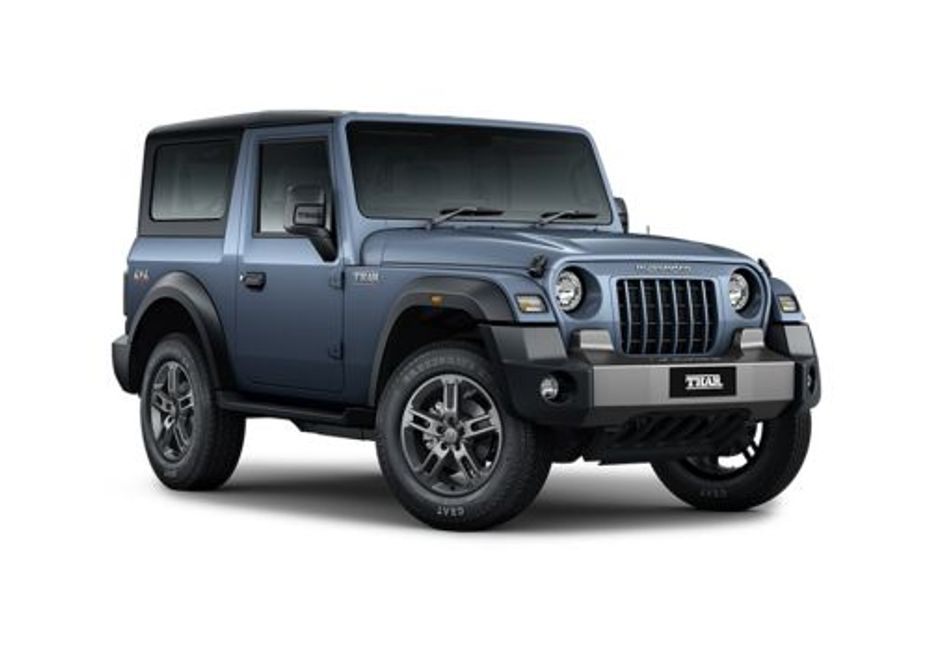
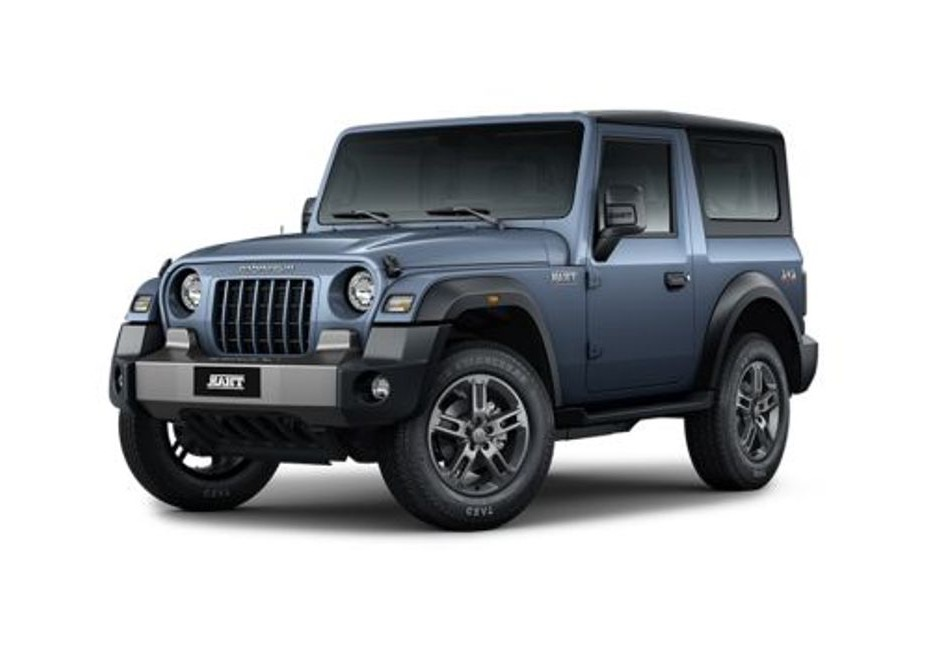
feat: add 4 new car models with full variants, images, and remove mirror system
Cars added (33 new variants across 4 models):
- Skoda Slavia: 9 variants (Active/Ambition/Style/Monte Carlo, 1.0 & 1.5 TSI)
- Maruti Suzuki Grand Vitara: 6 variants (mild hybrid + strong hybrid e-CVT)
- Toyota Fortuner: 6 variants (Base/Mid/High/Legender/GR Sport, diesel 4x2 & 4x4)
- Mahindra Scorpio-N: 12 variants (Z2–Z8L diesel + Z4/Z6/Z8 petrol)

Images: 21 new color photos downloaded from cardekho CDN (930x620px),
6 Thar images physically flipped, all oriented front-facing-left per convention

Mirror system removed: dropped mirror field from cars_data.py and all
scaleX(-1) CSS transform logic from CarDetail, BrandSearch, GalleryViewer —
orientation is now a physical property of each image file

diff --git a/frontend/src/components/GalleryViewer.jsx b/frontend/src/components/GalleryViewer.jsx
@@ -68,12 +68,6 @@ export default function GalleryViewer({
   const [visible, setVisible] = useState(true);
   const fadeTimer = useRef(null);
 
-  // heroFlip is a plain derived value, NOT delayed state.
-  // It updates the instant activeIdx changes — no timer, no stale closure.
-  // Rapid arrow clicks can never produce a mismatched flip because the value
-  // always reflects the currently targeted image, not a scheduled update.
-  const heroFlip = targetImg?.flip ?? false;
-
   useEffect(() => {
     const newSrc = targetImg?.src;
     if (!newSrc) return;
@@ -124,9 +118,7 @@ export default function GalleryViewer({
     };
   }, [lightboxOpen, closeLightbox]);
 
-  // heroFlip is set directly from targetImg.flip (baked into each exterior image
-  // object by CarDetail.jsx via the MIRROR_EXTERIOR set). Interior images never
-  // carry flip:true so they are never mirrored.
+
 
   // In 'all' mode, interior images have a label but no colorName — fall through to label
   const activeLabel = viewFilter === 'interior'
@@ -216,7 +208,7 @@ export default function GalleryViewer({
               display: 'block',
               opacity: visible ? 1 : 0,
               transition: 'opacity 0.18s ease',
-              transform: heroFlip ? 'scaleX(-1)' : 'none',
+              transform: 'none',
             }}
           />
         ) : (
@@ -373,7 +365,7 @@ export default function GalleryViewer({
               objectFit: 'contain',
               borderRadius: '10px',
               boxShadow: '0 16px 60px rgba(0,0,0,0.6)',
-              transform: heroFlip ? 'scaleX(-1)' : 'none',
+              transform: 'none',
             }}
           />
         </div>

diff --git a/frontend/src/pages/CarDetail.jsx b/frontend/src/pages/CarDetail.jsx
@@ -371,21 +371,19 @@ export default function CarDetail() {
   const colors = first.colors || [];
 
   // Build exterior image list for GalleryViewer (one entry per color).
-  // flip:true is baked into each object — GalleryViewer reads it directly from
-  // targetImg so no prop threading is needed.
+  // All images are stored facing left — no flip transform needed.
   const imgMap = (first.image_urls && typeof first.image_urls === 'object' && !Array.isArray(first.image_urls))
     ? first.image_urls
     : {};
   const fallbackImgSrc = Array.isArray(first.image_urls) ? first.image_urls[0] : null;
-  const needsFlip      = first.mirror ?? false;
   const exteriorImages = colors.length > 0
     ? colors.map(name => ({
         colorName: name,
         src:       imgMap[name] || fallbackImgSrc || null,
         alt:       `${decodedModel} in ${name}`,
-        flip:      needsFlip,
+        flip:      false,
       }))
-    : (fallbackImgSrc ? [{ colorName: null, src: fallbackImgSrc, alt: decodedModel, flip: needsFlip }] : []);
+    : (fallbackImgSrc ? [{ colorName: null, src: fallbackImgSrc, alt: decodedModel, flip: false }] : []);
 
   const interiorImages = GALLERY_INTERIORS[first.model_name] || [];
 

diff --git a/frontend/src/pages/BrandSearch.jsx b/frontend/src/pages/BrandSearch.jsx
@@ -117,7 +117,6 @@ export default function BrandSearch() {
                           width: '100%', height: '180px',
                           objectFit: 'cover', objectPosition: 'center',
                           display: 'block', backgroundColor: '#E8EEF5',
-                          transform: first.mirror ? 'scaleX(-1)' : 'none',
                           transformOrigin: 'center',
                         }}
                       />

diff --git a/backend/database/cars_data.py b/backend/database/cars_data.py
@@ -4,46 +4,125 @@
 
 _CRETA_COLORS  = ['Robust Emerald Pearl', 'Atlas White With Titanium Black', 'Titanium Black Matte', 'Titan Grey Matte', 'Starry Night', 'Atlas White', 'Titan Grey', 'Titanium Black', 'King Limited Edition Titanium Black Matte']
 _CRETA_IMGS    = {'Robust Emerald Pearl': '/images/hyundai-creta-robust-emerald-pearl.jpg', 'Atlas White With Titanium Black': '/images/hyundai-creta-atlas-white-with-titanium-black.jpg', 'Titanium Black Matte': '/images/hyundai-creta-titanium-black-matte.jpg', 'Titan Grey Matte': '/images/hyundai-creta-titan-grey-matte.jpg', 'Starry Night': '/images/hyundai-creta-starry-night.jpg', 'Atlas White': '/images/hyundai-creta-atlas-white.jpg', 'Titan Grey': '/images/hyundai-creta-titan-grey.jpg', 'Titanium Black': '/images/hyundai-creta-titanium-black.jpg', 'King Limited Edition Titanium Black Matte': '/images/hyundai-creta-king-limited-edition-titanium-black-matte.jpg'}
-_CRETA_MIRROR  = True   # images face left — apply scaleX(-1) to face left consistently
+
 
 _THAR_COLORS   = ['Everest White', 'Galaxy Grey', 'Stealth Black', 'Battleship Gray', 'Deep Forest', 'Tango Red']
 _THAR_IMGS     = {'Everest White': '/images/mahindra-thar-everest-white.jpg', 'Galaxy Grey': '/images/mahindra-thar-galaxy-grey.jpg', 'Stealth Black': '/images/mahindra-thar-stealth-black.jpg', 'Battleship Gray': '/images/mahindra-thar-battleship-gray.jpg', 'Deep Forest': '/images/mahindra-thar-deep-forest.jpg', 'Tango Red': '/images/mahindra-thar-tango-red.jpg'}
-_THAR_MIRROR   = False  # images already face right — no flip needed
 
 _NEXON_COLORS  = ['Pure Grey Black Roof', 'Ocean Blue With White Roof', 'Pristine White', 'Daytona Grey Dual Tone', 'Atlas Black Dark Edition', 'Grassland Beige With Black Roof', 'Grassland Beige', 'Atlas Black Red Edition', 'Pristine White Dual Tone', 'Ocean Blue', 'Pure Grey', 'Royal Blue', 'Royal Blue With Black Roof', 'Daytona Grey']
 _NEXON_IMGS    = {'Pure Grey Black Roof': '/images/tata-nexon-pure-grey-black-roof.jpg', 'Ocean Blue With White Roof': '/images/tata-nexon-ocean-blue-with-white-roof.jpg', 'Pristine White': '/images/tata-nexon-pristine-white.jpg', 'Daytona Grey Dual Tone': '/images/tata-nexon-daytona-grey-dual-tone.jpg', 'Atlas Black Dark Edition': '/images/tata-nexon-dark-edition-atlas-black.jpg', 'Grassland Beige With Black Roof': '/images/tata-nexon-grassland-beige-with-black-roof.jpg', 'Grassland Beige': '/images/tata-nexon-grassland-beige.jpg', 'Atlas Black Red Edition': '/images/tata-nexon-atlas-black-red-dark-edition.jpg', 'Pristine White Dual Tone': '/images/tata-nexon-pristine-white-dual-tone.jpg', 'Ocean Blue': '/images/tata-nexon-ocean-blue.jpg', 'Pure Grey': '/images/tata-nexon-pure-grey.jpg', 'Royal Blue': '/images/tata-nexon-royal-blue.jpg', 'Royal Blue With Black Roof': '/images/tata-nexon-royal-blue-with-black-roof.jpg', 'Daytona Grey': '/images/tata-nexon-daytona-grey.jpg'}
-_NEXON_MIRROR  = True
 
 _CITY_COLORS   = ['Lunar Silver Metallic', 'Platinum White Pearl', 'Radiant Red Metallic', 'Meteoroid Grey Metallic', 'Obsidian Blue Pearl', 'Crystal Black Pearl']
 _CITY_IMGS     = {'Lunar Silver Metallic': '/images/honda-city-lunar-silver-metallic.jpg', 'Platinum White Pearl': '/images/honda-city-platinum-white-pearl.jpg', 'Radiant Red Metallic': '/images/honda-city-radiant-red-metallic.jpg', 'Meteoroid Grey Metallic': '/images/honda-city-meteoroid-grey-metallic.jpg', 'Obsidian Blue Pearl': '/images/honda-city-obsidian-blue-pearl.jpg', 'Crystal Black Pearl': '/images/honda-city-crystal-black-pearl.jpg'}
-_CITY_MIRROR   = True
+
+# ── Skoda Slavia ─────────────────────────────────────────────────────────────
+_SLAVIA_COLORS = ['Brilliant Silver', 'Lava Blue', 'Candy White', 'Carbon Steel', 'Cherry Red']
+_SLAVIA_IMGS   = {
+    'Brilliant Silver': '/images/skoda-slavia-brilliant-silver.jpg',
+    'Lava Blue':        '/images/skoda-slavia-lava-blue.jpg',
+    'Candy White':      '/images/skoda-slavia-candy-white.jpg',
+    'Carbon Steel':     '/images/skoda-slavia-carbon-steel.jpg',
+    'Cherry Red':       '/images/skoda-slavia-cherry-red.jpg',
+}
+
+# ── Maruti Suzuki Grand Vitara ────────────────────────────────────────────────
+_GV_COLORS = ['Arctic White', 'Opulent Red', 'Grandeur Grey', 'Splendid Silver', 'Chestnut Brown']
+_GV_IMGS   = {
+    'Arctic White':   '/images/maruti-suzuki-grand-vitara-arctic-white.jpg',
+    'Opulent Red':    '/images/maruti-suzuki-grand-vitara-opulent-red.jpg',
+    'Grandeur Grey':  '/images/maruti-suzuki-grand-vitara-grandeur-grey.jpg',
+    'Splendid Silver':'/images/maruti-suzuki-grand-vitara-splendid-silver.jpg',
+    'Chestnut Brown': '/images/maruti-suzuki-grand-vitara-chestnut-brown.jpg',
+}
+
+# ── Toyota Fortuner ───────────────────────────────────────────────────────────
+_FORTUNER_COLORS = ['Platinum White Pearl', 'Phantom Brown', 'Sparkling Black Crystal Shine', 'Avant-Garde Bronze', 'Attitude Black', 'Silver Metallic']
+_FORTUNER_IMGS   = {
+    'Platinum White Pearl':        '/images/toyota-fortuner-platinum-white-pearl.jpg',
+    'Phantom Brown':               '/images/toyota-fortuner-phantom-brown.jpg',
+    'Sparkling Black Crystal Shine':'/images/toyota-fortuner-sparkling-black.jpg',
+    'Avant-Garde Bronze':          '/images/toyota-fortuner-avant-garde-bronze.jpg',
+    'Attitude Black':              '/images/toyota-fortuner-attitude-black.jpg',
+    'Silver Metallic':             '/images/toyota-fortuner-silver-metallic.jpg',
+}
+
+# ── Mahindra Scorpio-N ────────────────────────────────────────────────────────
+_SCORPIO_COLORS = ['Everest White', 'Valyrian Silver', 'Deep Forest', 'Midnight Black', 'Stealth Black']
+_SCORPIO_IMGS   = {
+    'Everest White':   '/images/mahindra-scorpio-n-everest-white.jpg',
+    'Valyrian Silver': '/images/mahindra-scorpio-n-valyrian-silver.jpg',
+    'Deep Forest':     '/images/mahindra-scorpio-n-deep-forest.jpg',
+    'Midnight Black':  '/images/mahindra-scorpio-n-midnight-black.jpg',
+    'Stealth Black':   '/images/mahindra-scorpio-n-stealth-black.jpg',
+}
 
 CARS_DATA = [
-    {'id':1  , 'brand':'Hyundai'   , 'model_name':'Creta'   , 'series':'E'          , 'trim_name':'E 1.5 Petrol MT'                   , 'car_type':'SUV'          , 'fuel_type':'Petrol'  , 'gearbox_type':'Manual'    , 'ex_showroom_price':11.0  , 'power':113  , 'mirror':_CRETA_MIRROR, 'colors':_CRETA_COLORS, 'image_urls':_CRETA_IMGS},
-    {'id':2  , 'brand':'Hyundai'   , 'model_name':'Creta'   , 'series':'EX'         , 'trim_name':'EX 1.5 Petrol MT'                  , 'car_type':'SUV'          , 'fuel_type':'Petrol'  , 'gearbox_type':'Manual'    , 'ex_showroom_price':12.0  , 'power':113  , 'mirror':_CRETA_MIRROR, 'colors':_CRETA_COLORS, 'image_urls':_CRETA_IMGS},
-    {'id':3  , 'brand':'Hyundai'   , 'model_name':'Creta'   , 'series':'EX'         , 'trim_name':'EX 1.5 Diesel MT'                  , 'car_type':'SUV'          , 'fuel_type':'Diesel'  , 'gearbox_type':'Manual'    , 'ex_showroom_price':13.2  , 'power':114  , 'mirror':_CRETA_MIRROR, 'colors':_CRETA_COLORS, 'image_urls':_CRETA_IMGS},
-    {'id':4  , 'brand':'Hyundai'   , 'model_name':'Creta'   , 'series':'S'          , 'trim_name':'S 1.5 Petrol MT'                   , 'car_type':'SUV'          , 'fuel_type':'Petrol'  , 'gearbox_type':'Manual'    , 'ex_showroom_price':13.16 , 'power':113  , 'mirror':_CRETA_MIRROR, 'colors':_CRETA_COLORS, 'image_urls':_CRETA_IMGS},
-    {'id':5  , 'brand':'Hyundai'   , 'model_name':'Creta'   , 'series':'SX'         , 'trim_name':'SX 1.5 Petrol iVT'                 , 'car_type':'SUV'          , 'fuel_type':'Petrol'  , 'gearbox_type':'Automatic' , 'ex_showroom_price':15.82 , 'power':113  , 'mirror':_CRETA_MIRROR, 'colors':_CRETA_COLORS, 'image_urls':_CRETA_IMGS},
-    {'id':6  , 'brand':'Hyundai'   , 'model_name':'Creta'   , 'series':'SX'         , 'trim_name':'SX 1.5 Diesel MT'                  , 'car_type':'SUV'          , 'fuel_type':'Diesel'  , 'gearbox_type':'Manual'    , 'ex_showroom_price':17.16 , 'power':114  , 'mirror':_CRETA_MIRROR, 'colors':_CRETA_COLORS, 'image_urls':_CRETA_IMGS},
-    {'id':7  , 'brand':'Hyundai'   , 'model_name':'Creta'   , 'series':'SX(O)'      , 'trim_name':'SX(O) 1.5 Diesel AT'               , 'car_type':'SUV'          , 'fuel_type':'Diesel'  , 'gearbox_type':'Automatic' , 'ex_showroom_price':20.15 , 'power':114  , 'mirror':_CRETA_MIRROR, 'colors':_CRETA_COLORS, 'image_urls':_CRETA_IMGS},
-    {'id':8  , 'brand':'Hyundai'   , 'model_name':'Creta'   , 'series':'SX(O) Tech' , 'trim_name':'SX(O) Tech 1.5 Turbo Petrol DCT'   , 'car_type':'SUV'          , 'fuel_type':'Petrol'  , 'gearbox_type':'Automatic' , 'ex_showroom_price':20.3  , 'power':158  , 'mirror':_CRETA_MIRROR, 'colors':_CRETA_COLORS, 'image_urls':_CRETA_IMGS},
-    {'id':9  , 'brand':'Mahindra'  , 'model_name':'Thar'    , 'series':'MX'         , 'trim_name':'MX 5-seater 2.2 Diesel MT'         , 'car_type':'Off-Road SUV' , 'fuel_type':'Diesel'  , 'gearbox_type':'Manual'    , 'ex_showroom_price':12.99 , 'power':150  , 'mirror':_THAR_MIRROR , 'colors':_THAR_COLORS , 'image_urls':_THAR_IMGS },
-    {'id':10 , 'brand':'Mahindra'  , 'model_name':'Thar'    , 'series':'AX'         , 'trim_name':'AX 5-seater 2.2 Diesel MT'         , 'car_type':'Off-Road SUV' , 'fuel_type':'Diesel'  , 'gearbox_type':'Manual'    , 'ex_showroom_price':16.49 , 'power':150  , 'mirror':_THAR_MIRROR , 'colors':_THAR_COLORS , 'image_urls':_THAR_IMGS },
-    {'id':11 , 'brand':'Mahindra'  , 'model_name':'Thar'    , 'series':'AX'         , 'trim_name':'AX 5-seater 2.0 Petrol AT'         , 'car_type':'Off-Road SUV' , 'fuel_type':'Petrol'  , 'gearbox_type':'Automatic' , 'ex_showroom_price':17.49 , 'power':175  , 'mirror':_THAR_MIRROR , 'colors':_THAR_COLORS , 'image_urls':_THAR_IMGS },
-    {'id':12 , 'brand':'Mahindra'  , 'model_name':'Thar'    , 'series':'LX'         , 'trim_name':'LX 5-seater 2.2 Diesel AT'         , 'car_type':'Off-Road SUV' , 'fuel_type':'Diesel'  , 'gearbox_type':'Automatic' , 'ex_showroom_price':20.49 , 'power':150  , 'mirror':_THAR_MIRROR , 'colors':_THAR_COLORS , 'image_urls':_THAR_IMGS },
-    {'id':13 , 'brand':'Mahindra'  , 'model_name':'Thar'    , 'series':'LX'         , 'trim_name':'LX 5-seater 2.0 Petrol AT'         , 'car_type':'Off-Road SUV' , 'fuel_type':'Petrol'  , 'gearbox_type':'Automatic' , 'ex_showroom_price':19.99 , 'power':175  , 'mirror':_THAR_MIRROR , 'colors':_THAR_COLORS , 'image_urls':_THAR_IMGS },
-    {'id':14 , 'brand':'Tata'      , 'model_name':'Nexon'   , 'series':'Smart'      , 'trim_name':'Smart 1.2 Petrol MT'               , 'car_type':'Compact SUV'  , 'fuel_type':'Petrol'  , 'gearbox_type':'Manual'    , 'ex_showroom_price':8.15  , 'power':118  , 'mirror':_NEXON_MIRROR, 'colors':_NEXON_COLORS, 'image_urls':_NEXON_IMGS},
-    {'id':15 , 'brand':'Tata'      , 'model_name':'Nexon'   , 'series':'Smart+'     , 'trim_name':'Smart+ 1.2 Petrol MT'              , 'car_type':'Compact SUV'  , 'fuel_type':'Petrol'  , 'gearbox_type':'Manual'    , 'ex_showroom_price':9.3   , 'power':118  , 'mirror':_NEXON_MIRROR, 'colors':_NEXON_COLORS, 'image_urls':_NEXON_IMGS},
-    {'id':16 , 'brand':'Tata'      , 'model_name':'Nexon'   , 'series':'Pure'       , 'trim_name':'Pure 1.5 Diesel MT'                , 'car_type':'Compact SUV'  , 'fuel_type':'Diesel'  , 'gearbox_type':'Manual'    , 'ex_showroom_price':11.1  , 'power':113  , 'mirror':_NEXON_MIRROR, 'colors':_NEXON_COLORS, 'image_urls':_NEXON_IMGS},
-    {'id':17 , 'brand':'Tata'      , 'model_name':'Nexon'   , 'series':'Pure+'      , 'trim_name':'Pure+ 1.5 Diesel MT'               , 'car_type':'Compact SUV'  , 'fuel_type':'Diesel'  , 'gearbox_type':'Manual'    , 'ex_showroom_price':12.0  , 'power':113  , 'mirror':_NEXON_MIRROR, 'colors':_NEXON_COLORS, 'image_urls':_NEXON_IMGS},
-    {'id':18 , 'brand':'Tata'      , 'model_name':'Nexon'   , 'series':'Creative'   , 'trim_name':'Creative 1.2 Petrol AMT'           , 'car_type':'Compact SUV'  , 'fuel_type':'Petrol'  , 'gearbox_type':'Automatic' , 'ex_showroom_price':11.8  , 'power':118  , 'mirror':_NEXON_MIRROR, 'colors':_NEXON_COLORS, 'image_urls':_NEXON_IMGS},
-    {'id':19 , 'brand':'Tata'      , 'model_name':'Nexon'   , 'series':'Creative+'  , 'trim_name':'Creative+ 1.5 Diesel AMT'          , 'car_type':'Compact SUV'  , 'fuel_type':'Diesel'  , 'gearbox_type':'Automatic' , 'ex_showroom_price':13.1  , 'power':113  , 'mirror':_NEXON_MIRROR, 'colors':_NEXON_COLORS, 'image_urls':_NEXON_IMGS},
-    {'id':20 , 'brand':'Tata'      , 'model_name':'Nexon'   , 'series':'Fearless'   , 'trim_name':'Fearless 1.2 Petrol DCT'           , 'car_type':'Compact SUV'  , 'fuel_type':'Petrol'  , 'gearbox_type':'Automatic' , 'ex_showroom_price':14.8  , 'power':118  , 'mirror':_NEXON_MIRROR, 'colors':_NEXON_COLORS, 'image_urls':_NEXON_IMGS},
-    {'id':21 , 'brand':'Tata'      , 'model_name':'Nexon'   , 'series':'Fearless S' , 'trim_name':'Fearless S 1.2 Petrol DCT S'       , 'car_type':'Compact SUV'  , 'fuel_type':'Petrol'  , 'gearbox_type':'Automatic' , 'ex_showroom_price':16.49 , 'power':118  , 'mirror':_NEXON_MIRROR, 'colors':_NEXON_COLORS, 'image_urls':_NEXON_IMGS},
-    {'id':22 , 'brand':'Honda'     , 'model_name':'City'    , 'series':'V'          , 'trim_name':'V 1.5 Petrol MT'                   , 'car_type':'Sedan'        , 'fuel_type':'Petrol'  , 'gearbox_type':'Manual'    , 'ex_showroom_price':11.48 , 'power':119  , 'mirror':_CITY_MIRROR , 'colors':_CITY_COLORS , 'image_urls':_CITY_IMGS },
-    {'id':23 , 'brand':'Honda'     , 'model_name':'City'    , 'series':'V'          , 'trim_name':'V 1.5 Petrol CVT'                  , 'car_type':'Sedan'        , 'fuel_type':'Petrol'  , 'gearbox_type':'Automatic' , 'ex_showroom_price':12.98 , 'power':119  , 'mirror':_CITY_MIRROR , 'colors':_CITY_COLORS , 'image_urls':_CITY_IMGS },
-    {'id':24 , 'brand':'Honda'     , 'model_name':'City'    , 'series':'VX'         , 'trim_name':'VX 1.5 Petrol MT'                  , 'car_type':'Sedan'        , 'fuel_type':'Petrol'  , 'gearbox_type':'Manual'    , 'ex_showroom_price':13.98 , 'power':119  , 'mirror':_CITY_MIRROR , 'colors':_CITY_COLORS , 'image_urls':_CITY_IMGS },
-    {'id':25 , 'brand':'Honda'     , 'model_name':'City'    , 'series':'VX'         , 'trim_name':'VX 1.5 Petrol CVT'                 , 'car_type':'Sedan'        , 'fuel_type':'Petrol'  , 'gearbox_type':'Automatic' , 'ex_showroom_price':15.4  , 'power':119  , 'mirror':_CITY_MIRROR , 'colors':_CITY_COLORS , 'image_urls':_CITY_IMGS },
-    {'id':26 , 'brand':'Honda'     , 'model_name':'City'    , 'series':'ZX'         , 'trim_name':'ZX 1.5 Petrol CVT'                 , 'car_type':'Sedan'        , 'fuel_type':'Petrol'  , 'gearbox_type':'Automatic' , 'ex_showroom_price':15.42 , 'power':119  , 'mirror':_CITY_MIRROR , 'colors':_CITY_COLORS , 'image_urls':_CITY_IMGS },
-    {'id':27 , 'brand':'Honda'     , 'model_name':'City'    , 'series':'e:HEV'      , 'trim_name':'e:HEV 1.5 Strong Hybrid e-CVT'     , 'car_type':'Sedan'        , 'fuel_type':'Hybrid'  , 'gearbox_type':'Automatic' , 'ex_showroom_price':18.99 , 'power':126  , 'mirror':_CITY_MIRROR , 'colors':_CITY_COLORS , 'image_urls':_CITY_IMGS },
+    {'id':1  , 'brand':'Hyundai'   , 'model_name':'Creta'   , 'series':'E'          , 'trim_name':'E 1.5 Petrol MT'                   , 'car_type':'SUV'          , 'fuel_type':'Petrol'  , 'gearbox_type':'Manual'    , 'ex_showroom_price':11.0  , 'power':113  , 'colors':_CRETA_COLORS, 'image_urls':_CRETA_IMGS},
+    {'id':2  , 'brand':'Hyundai'   , 'model_name':'Creta'   , 'series':'EX'         , 'trim_name':'EX 1.5 Petrol MT'                  , 'car_type':'SUV'          , 'fuel_type':'Petrol'  , 'gearbox_type':'Manual'    , 'ex_showroom_price':12.0  , 'power':113  , 'colors':_CRETA_COLORS, 'image_urls':_CRETA_IMGS},
+    {'id':3  , 'brand':'Hyundai'   , 'model_name':'Creta'   , 'series':'EX'         , 'trim_name':'EX 1.5 Diesel MT'                  , 'car_type':'SUV'          , 'fuel_type':'Diesel'  , 'gearbox_type':'Manual'    , 'ex_showroom_price':13.2  , 'power':114  , 'colors':_CRETA_COLORS, 'image_urls':_CRETA_IMGS},
+    {'id':4  , 'brand':'Hyundai'   , 'model_name':'Creta'   , 'series':'S'          , 'trim_name':'S 1.5 Petrol MT'                   , 'car_type':'SUV'          , 'fuel_type':'Petrol'  , 'gearbox_type':'Manual'    , 'ex_showroom_price':13.16 , 'power':113  , 'colors':_CRETA_COLORS, 'image_urls':_CRETA_IMGS},
+    {'id':5  , 'brand':'Hyundai'   , 'model_name':'Creta'   , 'series':'SX'         , 'trim_name':'SX 1.5 Petrol iVT'                 , 'car_type':'SUV'          , 'fuel_type':'Petrol'  , 'gearbox_type':'Automatic' , 'ex_showroom_price':15.82 , 'power':113  , 'colors':_CRETA_COLORS, 'image_urls':_CRETA_IMGS},
+    {'id':6  , 'brand':'Hyundai'   , 'model_name':'Creta'   , 'series':'SX'         , 'trim_name':'SX 1.5 Diesel MT'                  , 'car_type':'SUV'          , 'fuel_type':'Diesel'  , 'gearbox_type':'Manual'    , 'ex_showroom_price':17.16 , 'power':114  , 'colors':_CRETA_COLORS, 'image_urls':_CRETA_IMGS},
+    {'id':7  , 'brand':'Hyundai'   , 'model_name':'Creta'   , 'series':'SX(O)'      , 'trim_name':'SX(O) 1.5 Diesel AT'               , 'car_type':'SUV'          , 'fuel_type':'Diesel'  , 'gearbox_type':'Automatic' , 'ex_showroom_price':20.15 , 'power':114  , 'colors':_CRETA_COLORS, 'image_urls':_CRETA_IMGS},
+    {'id':8  , 'brand':'Hyundai'   , 'model_name':'Creta'   , 'series':'SX(O) Tech' , 'trim_name':'SX(O) Tech 1.5 Turbo Petrol DCT'   , 'car_type':'SUV'          , 'fuel_type':'Petrol'  , 'gearbox_type':'Automatic' , 'ex_showroom_price':20.3  , 'power':158  , 'colors':_CRETA_COLORS, 'image_urls':_CRETA_IMGS},
+    {'id':9  , 'brand':'Mahindra'  , 'model_name':'Thar'    , 'series':'MX'         , 'trim_name':'MX 5-seater 2.2 Diesel MT'         , 'car_type':'Off-Road SUV' , 'fuel_type':'Diesel'  , 'gearbox_type':'Manual'    , 'ex_showroom_price':12.99 , 'power':150  , 'colors':_THAR_COLORS , 'image_urls':_THAR_IMGS },
+    {'id':10 , 'brand':'Mahindra'  , 'model_name':'Thar'    , 'series':'AX'         , 'trim_name':'AX 5-seater 2.2 Diesel MT'         , 'car_type':'Off-Road SUV' , 'fuel_type':'Diesel'  , 'gearbox_type':'Manual'    , 'ex_showroom_price':16.49 , 'power':150  , 'colors':_THAR_COLORS , 'image_urls':_THAR_IMGS },
+    {'id':11 , 'brand':'Mahindra'  , 'model_name':'Thar'    , 'series':'AX'         , 'trim_name':'AX 5-seater 2.0 Petrol AT'         , 'car_type':'Off-Road SUV' , 'fuel_type':'Petrol'  , 'gearbox_type':'Automatic' , 'ex_showroom_price':17.49 , 'power':175  , 'colors':_THAR_COLORS , 'image_urls':_THAR_IMGS },
+    {'id':12 , 'brand':'Mahindra'  , 'model_name':'Thar'    , 'series':'LX'         , 'trim_name':'LX 5-seater 2.2 Diesel AT'         , 'car_type':'Off-Road SUV' , 'fuel_type':'Diesel'  , 'gearbox_type':'Automatic' , 'ex_showroom_price':20.49 , 'power':150  , 'colors':_THAR_COLORS , 'image_urls':_THAR_IMGS },
+    {'id':13 , 'brand':'Mahindra'  , 'model_name':'Thar'    , 'series':'LX'         , 'trim_name':'LX 5-seater 2.0 Petrol AT'         , 'car_type':'Off-Road SUV' , 'fuel_type':'Petrol'  , 'gearbox_type':'Automatic' , 'ex_showroom_price':19.99 , 'power':175  , 'colors':_THAR_COLORS , 'image_urls':_THAR_IMGS },
+    {'id':14 , 'brand':'Tata'      , 'model_name':'Nexon'   , 'series':'Smart'      , 'trim_name':'Smart 1.2 Petrol MT'               , 'car_type':'Compact SUV'  , 'fuel_type':'Petrol'  , 'gearbox_type':'Manual'    , 'ex_showroom_price':8.15  , 'power':118  , 'colors':_NEXON_COLORS, 'image_urls':_NEXON_IMGS},
+    {'id':15 , 'brand':'Tata'      , 'model_name':'Nexon'   , 'series':'Smart+'     , 'trim_name':'Smart+ 1.2 Petrol MT'              , 'car_type':'Compact SUV'  , 'fuel_type':'Petrol'  , 'gearbox_type':'Manual'    , 'ex_showroom_price':9.3   , 'power':118  , 'colors':_NEXON_COLORS, 'image_urls':_NEXON_IMGS},
+    {'id':16 , 'brand':'Tata'      , 'model_name':'Nexon'   , 'series':'Pure'       , 'trim_name':'Pure 1.5 Diesel MT'                , 'car_type':'Compact SUV'  , 'fuel_type':'Diesel'  , 'gearbox_type':'Manual'    , 'ex_showroom_price':11.1  , 'power':113  , 'colors':_NEXON_COLORS, 'image_urls':_NEXON_IMGS},
+    {'id':17 , 'brand':'Tata'      , 'model_name':'Nexon'   , 'series':'Pure+'      , 'trim_name':'Pure+ 1.5 Diesel MT'               , 'car_type':'Compact SUV'  , 'fuel_type':'Diesel'  , 'gearbox_type':'Manual'    , 'ex_showroom_price':12.0  , 'power':113  , 'colors':_NEXON_COLORS, 'image_urls':_NEXON_IMGS},
+    {'id':18 , 'brand':'Tata'      , 'model_name':'Nexon'   , 'series':'Creative'   , 'trim_name':'Creative 1.2 Petrol AMT'           , 'car_type':'Compact SUV'  , 'fuel_type':'Petrol'  , 'gearbox_type':'Automatic' , 'ex_showroom_price':11.8  , 'power':118  , 'colors':_NEXON_COLORS, 'image_urls':_NEXON_IMGS},
+    {'id':19 , 'brand':'Tata'      , 'model_name':'Nexon'   , 'series':'Creative+'  , 'trim_name':'Creative+ 1.5 Diesel AMT'          , 'car_type':'Compact SUV'  , 'fuel_type':'Diesel'  , 'gearbox_type':'Automatic' , 'ex_showroom_price':13.1  , 'power':113  , 'colors':_NEXON_COLORS, 'image_urls':_NEXON_IMGS},
+    {'id':20 , 'brand':'Tata'      , 'model_name':'Nexon'   , 'series':'Fearless'   , 'trim_name':'Fearless 1.2 Petrol DCT'           , 'car_type':'Compact SUV'  , 'fuel_type':'Petrol'  , 'gearbox_type':'Automatic' , 'ex_showroom_price':14.8  , 'power':118  , 'colors':_NEXON_COLORS, 'image_urls':_NEXON_IMGS},
+    {'id':21 , 'brand':'Tata'      , 'model_name':'Nexon'   , 'series':'Fearless S' , 'trim_name':'Fearless S 1.2 Petrol DCT S'       , 'car_type':'Compact SUV'  , 'fuel_type':'Petrol'  , 'gearbox_type':'Automatic' , 'ex_showroom_price':16.49 , 'power':118  , 'colors':_NEXON_COLORS, 'image_urls':_NEXON_IMGS},
+    {'id':22 , 'brand':'Honda'     , 'model_name':'City'    , 'series':'V'          , 'trim_name':'V 1.5 Petrol MT'                   , 'car_type':'Sedan'        , 'fuel_type':'Petrol'  , 'gearbox_type':'Manual'    , 'ex_showroom_price':11.48 , 'power':119  , 'colors':_CITY_COLORS , 'image_urls':_CITY_IMGS },
+    {'id':23 , 'brand':'Honda'     , 'model_name':'City'    , 'series':'V'          , 'trim_name':'V 1.5 Petrol CVT'                  , 'car_type':'Sedan'        , 'fuel_type':'Petrol'  , 'gearbox_type':'Automatic' , 'ex_showroom_price':12.98 , 'power':119  , 'colors':_CITY_COLORS , 'image_urls':_CITY_IMGS },
+    {'id':24 , 'brand':'Honda'     , 'model_name':'City'    , 'series':'VX'         , 'trim_name':'VX 1.5 Petrol MT'                  , 'car_type':'Sedan'        , 'fuel_type':'Petrol'  , 'gearbox_type':'Manual'    , 'ex_showroom_price':13.98 , 'power':119  , 'colors':_CITY_COLORS , 'image_urls':_CITY_IMGS },
+    {'id':25 , 'brand':'Honda'     , 'model_name':'City'    , 'series':'VX'         , 'trim_name':'VX 1.5 Petrol CVT'                 , 'car_type':'Sedan'        , 'fuel_type':'Petrol'  , 'gearbox_type':'Automatic' , 'ex_showroom_price':15.4  , 'power':119  , 'colors':_CITY_COLORS , 'image_urls':_CITY_IMGS },
+    {'id':26 , 'brand':'Honda'     , 'model_name':'City'    , 'series':'ZX'         , 'trim_name':'ZX 1.5 Petrol CVT'                 , 'car_type':'Sedan'        , 'fuel_type':'Petrol'  , 'gearbox_type':'Automatic' , 'ex_showroom_price':15.42 , 'power':119  , 'colors':_CITY_COLORS , 'image_urls':_CITY_IMGS },
+    {'id':27 , 'brand':'Honda'     , 'model_name':'City'    , 'series':'e:HEV'      , 'trim_name':'e:HEV 1.5 Strong Hybrid e-CVT'     , 'car_type':'Sedan'        , 'fuel_type':'Hybrid'  , 'gearbox_type':'Automatic' , 'ex_showroom_price':18.99 , 'power':126  , 'colors':_CITY_COLORS , 'image_urls':_CITY_IMGS },
+
+    # ── Skoda Slavia ──────────────────────────────────────────────────────────
+    {'id':28 , 'brand':'Skoda'    , 'model_name':'Slavia'  , 'series':'Active'     , 'trim_name':'Active 1.0 TSI MT'                 , 'car_type':'Sedan'        , 'fuel_type':'Petrol'  , 'gearbox_type':'Manual'    , 'ex_showroom_price':10.69 , 'power':115  , 'colors':_SLAVIA_COLORS, 'image_urls':_SLAVIA_IMGS},
+    {'id':29 , 'brand':'Skoda'    , 'model_name':'Slavia'  , 'series':'Ambition'   , 'trim_name':'Ambition 1.0 TSI MT'               , 'car_type':'Sedan'        , 'fuel_type':'Petrol'  , 'gearbox_type':'Manual'    , 'ex_showroom_price':12.99 , 'power':115  , 'colors':_SLAVIA_COLORS, 'image_urls':_SLAVIA_IMGS},
+    {'id':30 , 'brand':'Skoda'    , 'model_name':'Slavia'  , 'series':'Ambition'   , 'trim_name':'Ambition 1.5 TSI MT'               , 'car_type':'Sedan'        , 'fuel_type':'Petrol'  , 'gearbox_type':'Manual'    , 'ex_showroom_price':14.39 , 'power':150  , 'colors':_SLAVIA_COLORS, 'image_urls':_SLAVIA_IMGS},
+    {'id':31 , 'brand':'Skoda'    , 'model_name':'Slavia'  , 'series':'Ambition'   , 'trim_name':'Ambition 1.5 TSI DSG'              , 'car_type':'Sedan'        , 'fuel_type':'Petrol'  , 'gearbox_type':'Automatic' , 'ex_showroom_price':16.39 , 'power':150  , 'colors':_SLAVIA_COLORS, 'image_urls':_SLAVIA_IMGS},
+    {'id':32 , 'brand':'Skoda'    , 'model_name':'Slavia'  , 'series':'Style'      , 'trim_name':'Style 1.0 TSI MT'                  , 'car_type':'Sedan'        , 'fuel_type':'Petrol'  , 'gearbox_type':'Manual'    , 'ex_showroom_price':14.99 , 'power':115  , 'colors':_SLAVIA_COLORS, 'image_urls':_SLAVIA_IMGS},
+    {'id':33 , 'brand':'Skoda'    , 'model_name':'Slavia'  , 'series':'Style'      , 'trim_name':'Style 1.5 TSI MT'                  , 'car_type':'Sedan'        , 'fuel_type':'Petrol'  , 'gearbox_type':'Manual'    , 'ex_showroom_price':17.09 , 'power':150  , 'colors':_SLAVIA_COLORS, 'image_urls':_SLAVIA_IMGS},
+    {'id':34 , 'brand':'Skoda'    , 'model_name':'Slavia'  , 'series':'Style'      , 'trim_name':'Style 1.5 TSI DSG'                 , 'car_type':'Sedan'        , 'fuel_type':'Petrol'  , 'gearbox_type':'Automatic' , 'ex_showroom_price':18.99 , 'power':150  , 'colors':_SLAVIA_COLORS, 'image_urls':_SLAVIA_IMGS},
+    {'id':35 , 'brand':'Skoda'    , 'model_name':'Slavia'  , 'series':'Monte Carlo', 'trim_name':'Monte Carlo 1.5 TSI MT'             , 'car_type':'Sedan'        , 'fuel_type':'Petrol'  , 'gearbox_type':'Manual'    , 'ex_showroom_price':17.89 , 'power':150  , 'colors':_SLAVIA_COLORS, 'image_urls':_SLAVIA_IMGS},
+    {'id':36 , 'brand':'Skoda'    , 'model_name':'Slavia'  , 'series':'Monte Carlo', 'trim_name':'Monte Carlo 1.5 TSI DSG'            , 'car_type':'Sedan'        , 'fuel_type':'Petrol'  , 'gearbox_type':'Automatic' , 'ex_showroom_price':19.89 , 'power':150  , 'colors':_SLAVIA_COLORS, 'image_urls':_SLAVIA_IMGS},
+
+    # ── Maruti Suzuki Grand Vitara ─────────────────────────────────────────────
+    {'id':37 , 'brand':'Maruti Suzuki', 'model_name':'Grand Vitara', 'series':'Sigma'  , 'trim_name':'Sigma 1.5 Mild Hybrid MT'          , 'car_type':'SUV'          , 'fuel_type':'Petrol'  , 'gearbox_type':'Manual'    , 'ex_showroom_price':10.99 , 'power':103  , 'colors':_GV_COLORS, 'image_urls':_GV_IMGS},
+    {'id':38 , 'brand':'Maruti Suzuki', 'model_name':'Grand Vitara', 'series':'Delta'  , 'trim_name':'Delta 1.5 Mild Hybrid MT'           , 'car_type':'SUV'          , 'fuel_type':'Petrol'  , 'gearbox_type':'Manual'    , 'ex_showroom_price':12.39 , 'power':103  , 'colors':_GV_COLORS, 'image_urls':_GV_IMGS},
+    {'id':39 , 'brand':'Maruti Suzuki', 'model_name':'Grand Vitara', 'series':'Zeta'   , 'trim_name':'Zeta 1.5 Mild Hybrid MT'            , 'car_type':'SUV'          , 'fuel_type':'Petrol'  , 'gearbox_type':'Manual'    , 'ex_showroom_price':14.99 , 'power':103  , 'colors':_GV_COLORS, 'image_urls':_GV_IMGS},
+    {'id':40 , 'brand':'Maruti Suzuki', 'model_name':'Grand Vitara', 'series':'Alpha'  , 'trim_name':'Alpha 1.5 Mild Hybrid MT'           , 'car_type':'SUV'          , 'fuel_type':'Petrol'  , 'gearbox_type':'Manual'    , 'ex_showroom_price':17.49 , 'power':103  , 'colors':_GV_COLORS, 'image_urls':_GV_IMGS},
+    {'id':41 , 'brand':'Maruti Suzuki', 'model_name':'Grand Vitara', 'series':'Zeta+'  , 'trim_name':'Zeta+ 1.5 Strong Hybrid e-CVT'     , 'car_type':'SUV'          , 'fuel_type':'Hybrid'  , 'gearbox_type':'Automatic' , 'ex_showroom_price':19.49 , 'power':116  , 'colors':_GV_COLORS, 'image_urls':_GV_IMGS},
+    {'id':42 , 'brand':'Maruti Suzuki', 'model_name':'Grand Vitara', 'series':'Alpha+' , 'trim_name':'Alpha+ 1.5 Strong Hybrid e-CVT'    , 'car_type':'SUV'          , 'fuel_type':'Hybrid'  , 'gearbox_type':'Automatic' , 'ex_showroom_price':23.49 , 'power':116  , 'colors':_GV_COLORS, 'image_urls':_GV_IMGS},
+
+    # ── Toyota Fortuner ───────────────────────────────────────────────────────
+    {'id':43 , 'brand':'Toyota'   , 'model_name':'Fortuner', 'series':'Base'       , 'trim_name':'2.8 Diesel 4x2 MT'                 , 'car_type':'MUV'           , 'fuel_type':'Diesel'  , 'gearbox_type':'Manual'    , 'ex_showroom_price':33.43 , 'power':204  , 'colors':_FORTUNER_COLORS, 'image_urls':_FORTUNER_IMGS},
+    {'id':44 , 'brand':'Toyota'   , 'model_name':'Fortuner', 'series':'Mid'        , 'trim_name':'2.8 Diesel 4x2 AT'                 , 'car_type':'MUV'           , 'fuel_type':'Diesel'  , 'gearbox_type':'Automatic' , 'ex_showroom_price':38.28 , 'power':204  , 'colors':_FORTUNER_COLORS, 'image_urls':_FORTUNER_IMGS},
+    {'id':45 , 'brand':'Toyota'   , 'model_name':'Fortuner', 'series':'High'       , 'trim_name':'2.8 Diesel 4x4 MT'                 , 'car_type':'MUV'           , 'fuel_type':'Diesel'  , 'gearbox_type':'Manual'    , 'ex_showroom_price':38.85 , 'power':204  , 'colors':_FORTUNER_COLORS, 'image_urls':_FORTUNER_IMGS},
+    {'id':46 , 'brand':'Toyota'   , 'model_name':'Fortuner', 'series':'High'       , 'trim_name':'2.8 Diesel 4x4 AT'                 , 'car_type':'MUV'           , 'fuel_type':'Diesel'  , 'gearbox_type':'Automatic' , 'ex_showroom_price':46.27 , 'power':204  , 'colors':_FORTUNER_COLORS, 'image_urls':_FORTUNER_IMGS},
+    {'id':47 , 'brand':'Toyota'   , 'model_name':'Fortuner', 'series':'Legender'   , 'trim_name':'Legender 2.8 Diesel 4x4 AT'        , 'car_type':'MUV'           , 'fuel_type':'Diesel'  , 'gearbox_type':'Automatic' , 'ex_showroom_price':54.31 , 'power':204  , 'colors':_FORTUNER_COLORS, 'image_urls':_FORTUNER_IMGS},
+    {'id':48 , 'brand':'Toyota'   , 'model_name':'Fortuner', 'series':'GR Sport'   , 'trim_name':'GR Sport 2.8 Diesel 4x2 AT'        , 'car_type':'MUV'           , 'fuel_type':'Diesel'  , 'gearbox_type':'Automatic' , 'ex_showroom_price':56.86 , 'power':204  , 'colors':_FORTUNER_COLORS, 'image_urls':_FORTUNER_IMGS},
+
+    # ── Mahindra Scorpio-N ────────────────────────────────────────────────────
+    {'id':49 , 'brand':'Mahindra' , 'model_name':'Scorpio-N', 'series':'Z2'        , 'trim_name':'Z2 2.2 Diesel MT'                  , 'car_type':'SUV'           , 'fuel_type':'Diesel'  , 'gearbox_type':'Manual'    , 'ex_showroom_price':13.99 , 'power':175  , 'colors':_SCORPIO_COLORS, 'image_urls':_SCORPIO_IMGS},
+    {'id':50 , 'brand':'Mahindra' , 'model_name':'Scorpio-N', 'series':'Z4'        , 'trim_name':'Z4 2.2 Diesel MT'                  , 'car_type':'SUV'           , 'fuel_type':'Diesel'  , 'gearbox_type':'Manual'    , 'ex_showroom_price':15.49 , 'power':175  , 'colors':_SCORPIO_COLORS, 'image_urls':_SCORPIO_IMGS},
+    {'id':51 , 'brand':'Mahindra' , 'model_name':'Scorpio-N', 'series':'Z4'        , 'trim_name':'Z4 2.2 Diesel AT'                  , 'car_type':'SUV'           , 'fuel_type':'Diesel'  , 'gearbox_type':'Automatic' , 'ex_showroom_price':17.49 , 'power':175  , 'colors':_SCORPIO_COLORS, 'image_urls':_SCORPIO_IMGS},
+    {'id':52 , 'brand':'Mahindra' , 'model_name':'Scorpio-N', 'series':'Z4'        , 'trim_name':'Z4 2.0 Petrol MT'                  , 'car_type':'SUV'           , 'fuel_type':'Petrol'  , 'gearbox_type':'Manual'    , 'ex_showroom_price':15.99 , 'power':200  , 'colors':_SCORPIO_COLORS, 'image_urls':_SCORPIO_IMGS},
+    {'id':53 , 'brand':'Mahindra' , 'model_name':'Scorpio-N', 'series':'Z4'        , 'trim_name':'Z4 2.0 Petrol AT'                  , 'car_type':'SUV'           , 'fuel_type':'Petrol'  , 'gearbox_type':'Automatic' , 'ex_showroom_price':17.99 , 'power':200  , 'colors':_SCORPIO_COLORS, 'image_urls':_SCORPIO_IMGS},
+    {'id':54 , 'brand':'Mahindra' , 'model_name':'Scorpio-N', 'series':'Z6'        , 'trim_name':'Z6 2.2 Diesel MT'                  , 'car_type':'SUV'           , 'fuel_type':'Diesel'  , 'gearbox_type':'Manual'    , 'ex_showroom_price':17.99 , 'power':175  , 'colors':_SCORPIO_COLORS, 'image_urls':_SCORPIO_IMGS},
+    {'id':55 , 'brand':'Mahindra' , 'model_name':'Scorpio-N', 'series':'Z6'        , 'trim_name':'Z6 2.2 Diesel AT'                  , 'car_type':'SUV'           , 'fuel_type':'Diesel'  , 'gearbox_type':'Automatic' , 'ex_showroom_price':19.99 , 'power':175  , 'colors':_SCORPIO_COLORS, 'image_urls':_SCORPIO_IMGS},
+    {'id':56 , 'brand':'Mahindra' , 'model_name':'Scorpio-N', 'series':'Z8'        , 'trim_name':'Z8 2.2 Diesel MT'                  , 'car_type':'SUV'           , 'fuel_type':'Diesel'  , 'gearbox_type':'Manual'    , 'ex_showroom_price':21.99 , 'power':175  , 'colors':_SCORPIO_COLORS, 'image_urls':_SCORPIO_IMGS},
+    {'id':57 , 'brand':'Mahindra' , 'model_name':'Scorpio-N', 'series':'Z8'        , 'trim_name':'Z8 2.2 Diesel AT'                  , 'car_type':'SUV'           , 'fuel_type':'Diesel'  , 'gearbox_type':'Automatic' , 'ex_showroom_price':23.49 , 'power':175  , 'colors':_SCORPIO_COLORS, 'image_urls':_SCORPIO_IMGS},
+    {'id':58 , 'brand':'Mahindra' , 'model_name':'Scorpio-N', 'series':'Z8'        , 'trim_name':'Z8 2.0 Petrol AT'                  , 'car_type':'SUV'           , 'fuel_type':'Petrol'  , 'gearbox_type':'Automatic' , 'ex_showroom_price':24.99 , 'power':200  , 'colors':_SCORPIO_COLORS, 'image_urls':_SCORPIO_IMGS},
+    {'id':59 , 'brand':'Mahindra' , 'model_name':'Scorpio-N', 'series':'Z8L'       , 'trim_name':'Z8L 2.2 Diesel MT'                 , 'car_type':'SUV'           , 'fuel_type':'Diesel'  , 'gearbox_type':'Manual'    , 'ex_showroom_price':24.49 , 'power':175  , 'colors':_SCORPIO_COLORS, 'image_urls':_SCORPIO_IMGS},
+    {'id':60 , 'brand':'Mahindra' , 'model_name':'Scorpio-N', 'series':'Z8L'       , 'trim_name':'Z8L 2.2 Diesel AT'                 , 'car_type':'SUV'           , 'fuel_type':'Diesel'  , 'gearbox_type':'Automatic' , 'ex_showroom_price':26.49 , 'power':175  , 'colors':_SCORPIO_COLORS, 'image_urls':_SCORPIO_IMGS},
 ]

diff --git a/backend/database/car_metadata.py b/backend/database/car_metadata.py
@@ -22,4 +22,24 @@ CAR_META = {
         'lineage_history':  "The City has been Honda's flagship model in India since 1998 and the country's best-selling mid-size sedan for much of its history. The sixth generation brought the City e:HEV strong hybrid - the only hybrid sedan in its class - cementing Honda's reputation for powertrain innovation and interior refinement.",
         'monthly_sales':    5000,
     },
+    'Slavia': {
+        'brand_history':   "Skoda Auto, founded in 1895 in Mladá Boleslav, is one of the oldest surviving car manufacturers in the world and became part of the Volkswagen Group in 1991. In India, Skoda launched under VW Group's India 2.0 project in 2021, sharing platforms and powertrains with Volkswagen to dramatically reduce costs and improve localisation. The brand is known for its precise European engineering, generous standard equipment, and a reputation for ride quality and safety that consistently outperforms segment expectations.",
+        'lineage_history':  "The Slavia was launched in India in 2022 as Skoda's mid-size sedan built specifically for the Indian market on the MQB-A0-IN platform. It replaced the Rapid and brought 1.0 TSI and 1.5 TSI turbocharged engines with DSG automatic options, filling a niche between value hatchbacks and premium saloons. The Monte Carlo variant targeted sporty buyers and became the range's signature trim.",
+        'monthly_sales':    3500,
+    },
+    'Grand Vitara': {
+        'brand_history':   "Maruti Suzuki India Limited, established in 1981 as a joint venture between the Government of India and Suzuki Motor Corporation, is India's largest carmaker by volume and has held over 40 percent market share for most of its history. The company introduced fuel-efficient small cars that transformed personal mobility in India and operates the country's largest sales and service network spanning every district. Its Nexa premium channel, launched in 2015, elevated the brand's positioning and now houses aspirational models including the Grand Vitara, Fronx, and Jimny.",
+        'lineage_history':  "The Grand Vitara name returned to India in 2022 after a hiatus, built on a Toyota-developed TNGA-B platform co-developed with Toyota as part of the two companies' global alliance. It became Maruti's first strong hybrid SUV through the Toyota-sourced e-CVT system, instantly making it the most efficient car in its segment. The mild hybrid variants brought affordability, while the strong hybrid Alpha+ became the flagship of Maruti's premium SUV ambitions.",
+        'monthly_sales':    14000,
+    },
+    'Fortuner': {
+        'brand_history':   "Toyota Kirloskar Motor, a joint venture between Toyota Motor Corporation and the Kirloskar Group, has operated in India since 1997. While Toyota holds a modest overall share, it dominates the premium SUV and MPV segments with the Fortuner, Innova Hycross, and Camry. The brand is synonymous with legendary reliability — the Fortuner and Innova have a cult following among fleet operators and aspirational buyers alike — and Toyota's hybrid technology leadership is unmatched in India, covering both self-charging and plug-in architectures.",
+        'lineage_history':  "The Fortuner has been the undisputed king of the lifestyle SUV segment in India since its 2009 introduction. Built on a ladder-frame chassis with selectable 4x4, it combines genuine off-road capability with a commanding road presence that its monocoque rivals cannot match. The 2021 facelift brought a 204 PS diesel, a sportier Legender variant, and the GR Sport trim that elevated its performance credentials while keeping the dependable D-4D diesel powertrain at its core.",
+        'monthly_sales':    4500,
+    },
+    'Scorpio-N': {
+        'brand_history':   "Mahindra and Mahindra began as a steel trading company in 1945 and assembled Willys Jeeps under licence before building its own rugged utility vehicles. The brand's identity is built on off-road capability and durability, exemplified by the legendary Bolero and Scorpio nameplates that dominate rural and semi-urban India. Mahindra's new-generation platforms underpin the XUV700, Scorpio-N, and XUV 3XO, which have won multiple Indian Car of the Year awards, while the company invests heavily in its BE and XEV electric series for an electrified future.",
+        'lineage_history':  "The Scorpio name has been a Mahindra icon since 2002, defining the brand's transition from utilitarian vehicles to aspirational SUVs. The Scorpio-N launched in 2022 as a clean-sheet redesign on an all-new ladder frame platform, with a 2.2L mHawk diesel and a new 2.0L mStallion turbo petrol option. It offered genuine seven-seater capacity, ADAS features, and a premium interior that the original Scorpio never had, while retaining the rugged body-on-frame DNA its loyal customer base expected.",
+        'monthly_sales':    7000,
+    },
 }
